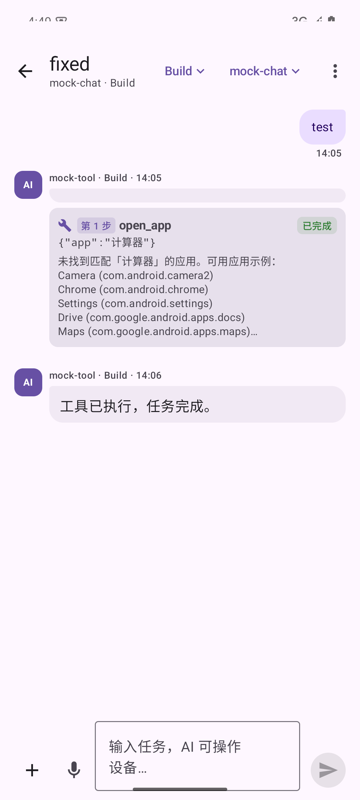
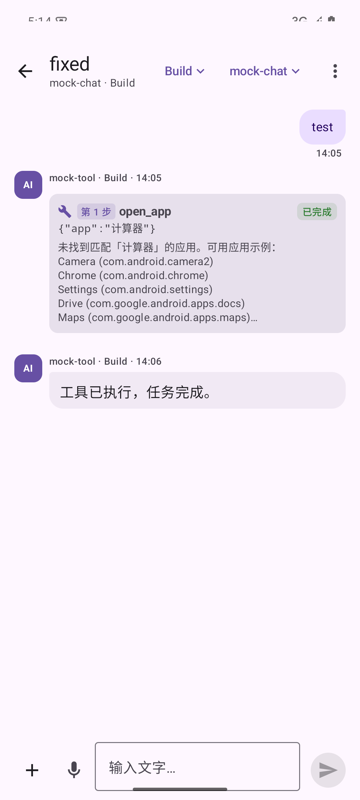
fix: no empty bubble for tool-only messages; shorten input placeholder

diff --git a/app/src/main/java/com/betteraichat/ui/chat/ChatScreen.kt b/app/src/main/java/com/betteraichat/ui/chat/ChatScreen.kt
@@ -758,14 +758,7 @@ private fun InputBar(
                 onValueChange = onInputChange,
                 modifier = Modifier.weight(1f),
                 placeholder = {
-                    Text(
-                        when (mode) {
-                            AppMode.CHAT -> "输入消息…"
-                            AppMode.PLAN -> "输入问题，AI 将进行分析…"
-                            AppMode.BUILD -> "输入任务，AI 可操作设备…"
-                            AppMode.MAX -> "输入任务，AI 将自主执行…"
-                        }
-                    )
+                    Text("输入文字…")
                 },
                 maxLines = 6,
                 trailingIcon = {

diff --git a/app/src/main/java/com/betteraichat/ui/chat/MessageViews.kt b/app/src/main/java/com/betteraichat/ui/chat/MessageViews.kt
@@ -130,7 +130,8 @@ fun MessageItem(
                 )
             }
             Spacer(Modifier.size(4.dp))
-            Surface(
+            if (msg.content.isNotEmpty() || msg.toolCalls.isEmpty()) {
+                Surface(
                 shape = RoundedCornerShape(topStart = 4.dp, topEnd = 16.dp, bottomEnd = 16.dp, bottomStart = 16.dp),
                 color = MaterialTheme.colorScheme.surfaceVariant.copy(alpha = 0.6f),
                 modifier = Modifier
@@ -162,6 +163,7 @@ fun MessageItem(
                         }
                     }
                 }
+            }
             }
             msg.toolCalls.forEachIndexed { index, call ->
                 Spacer(Modifier.size(6.dp))
